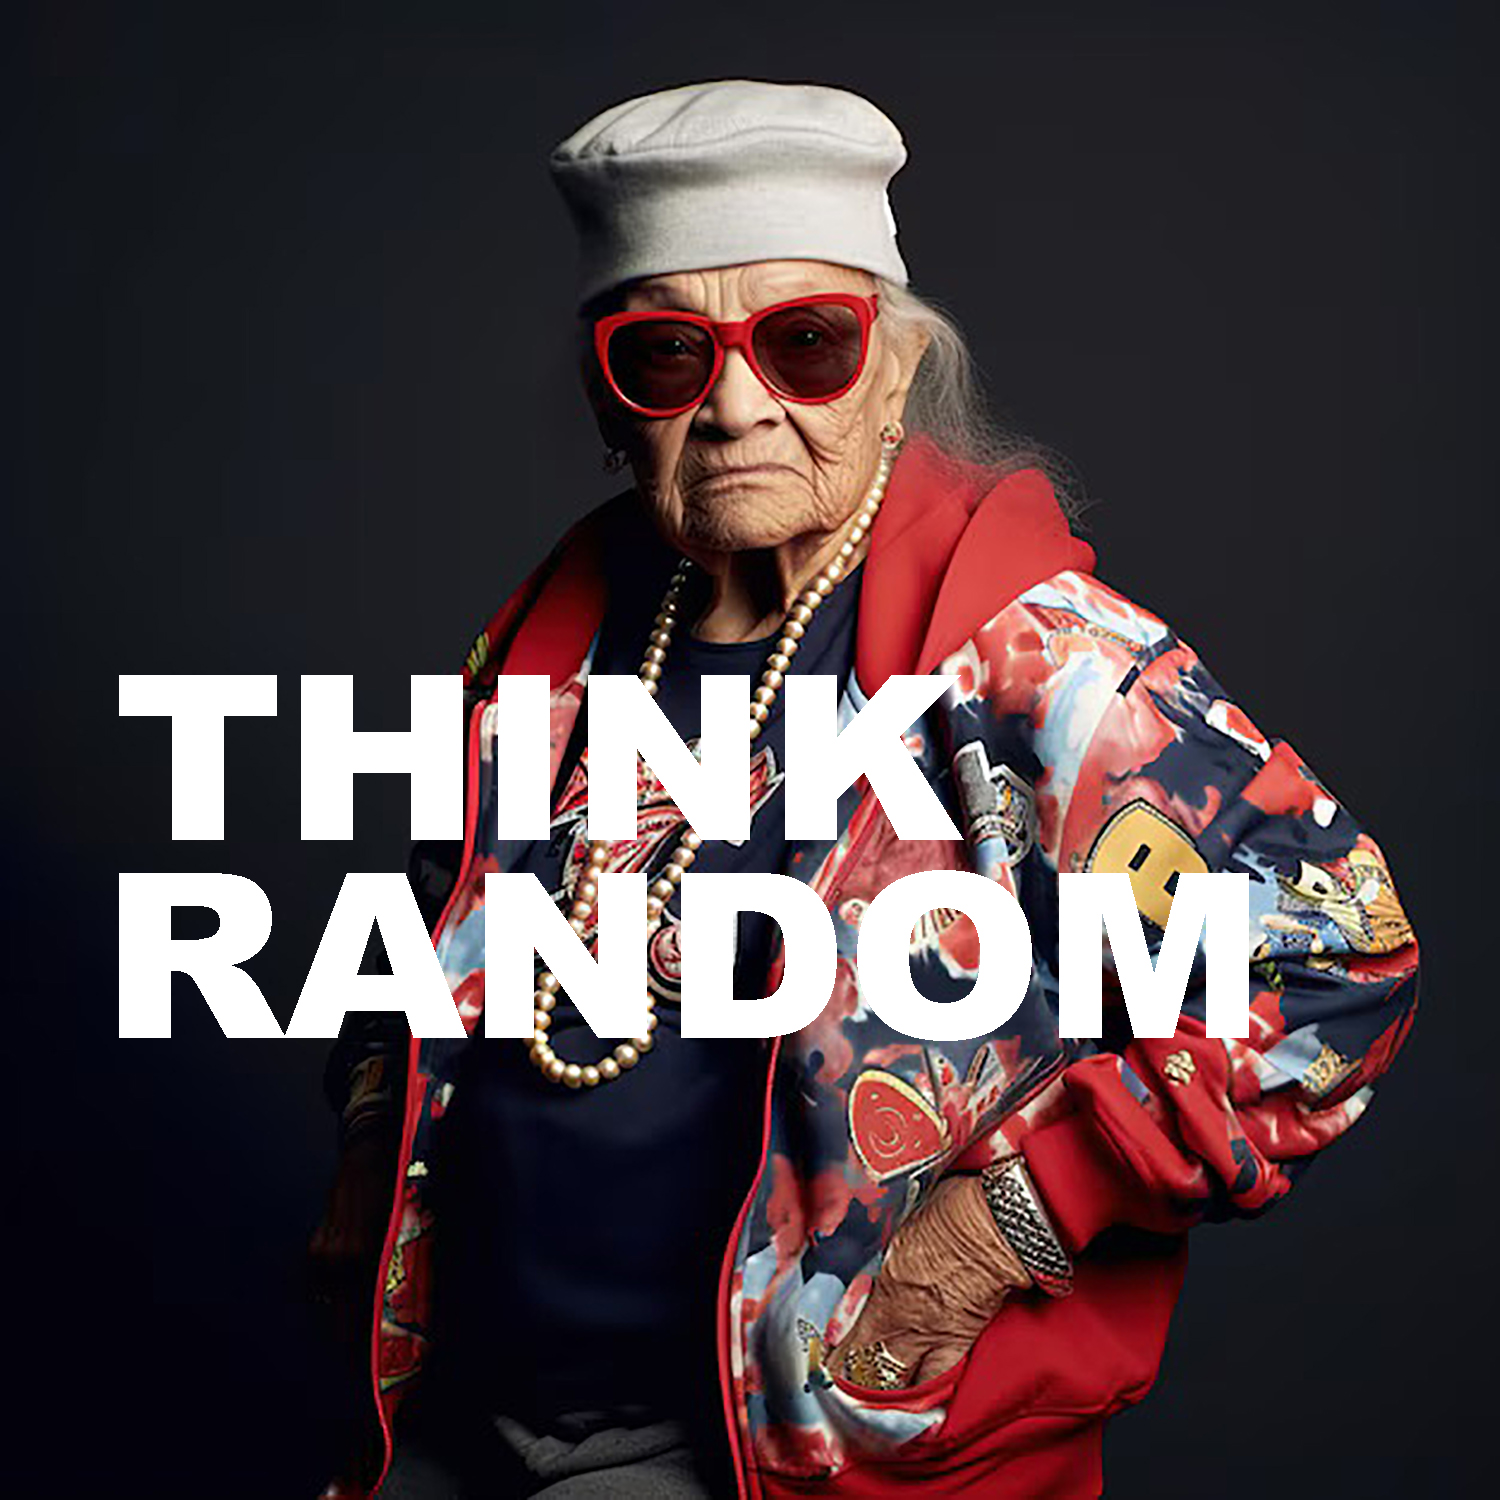
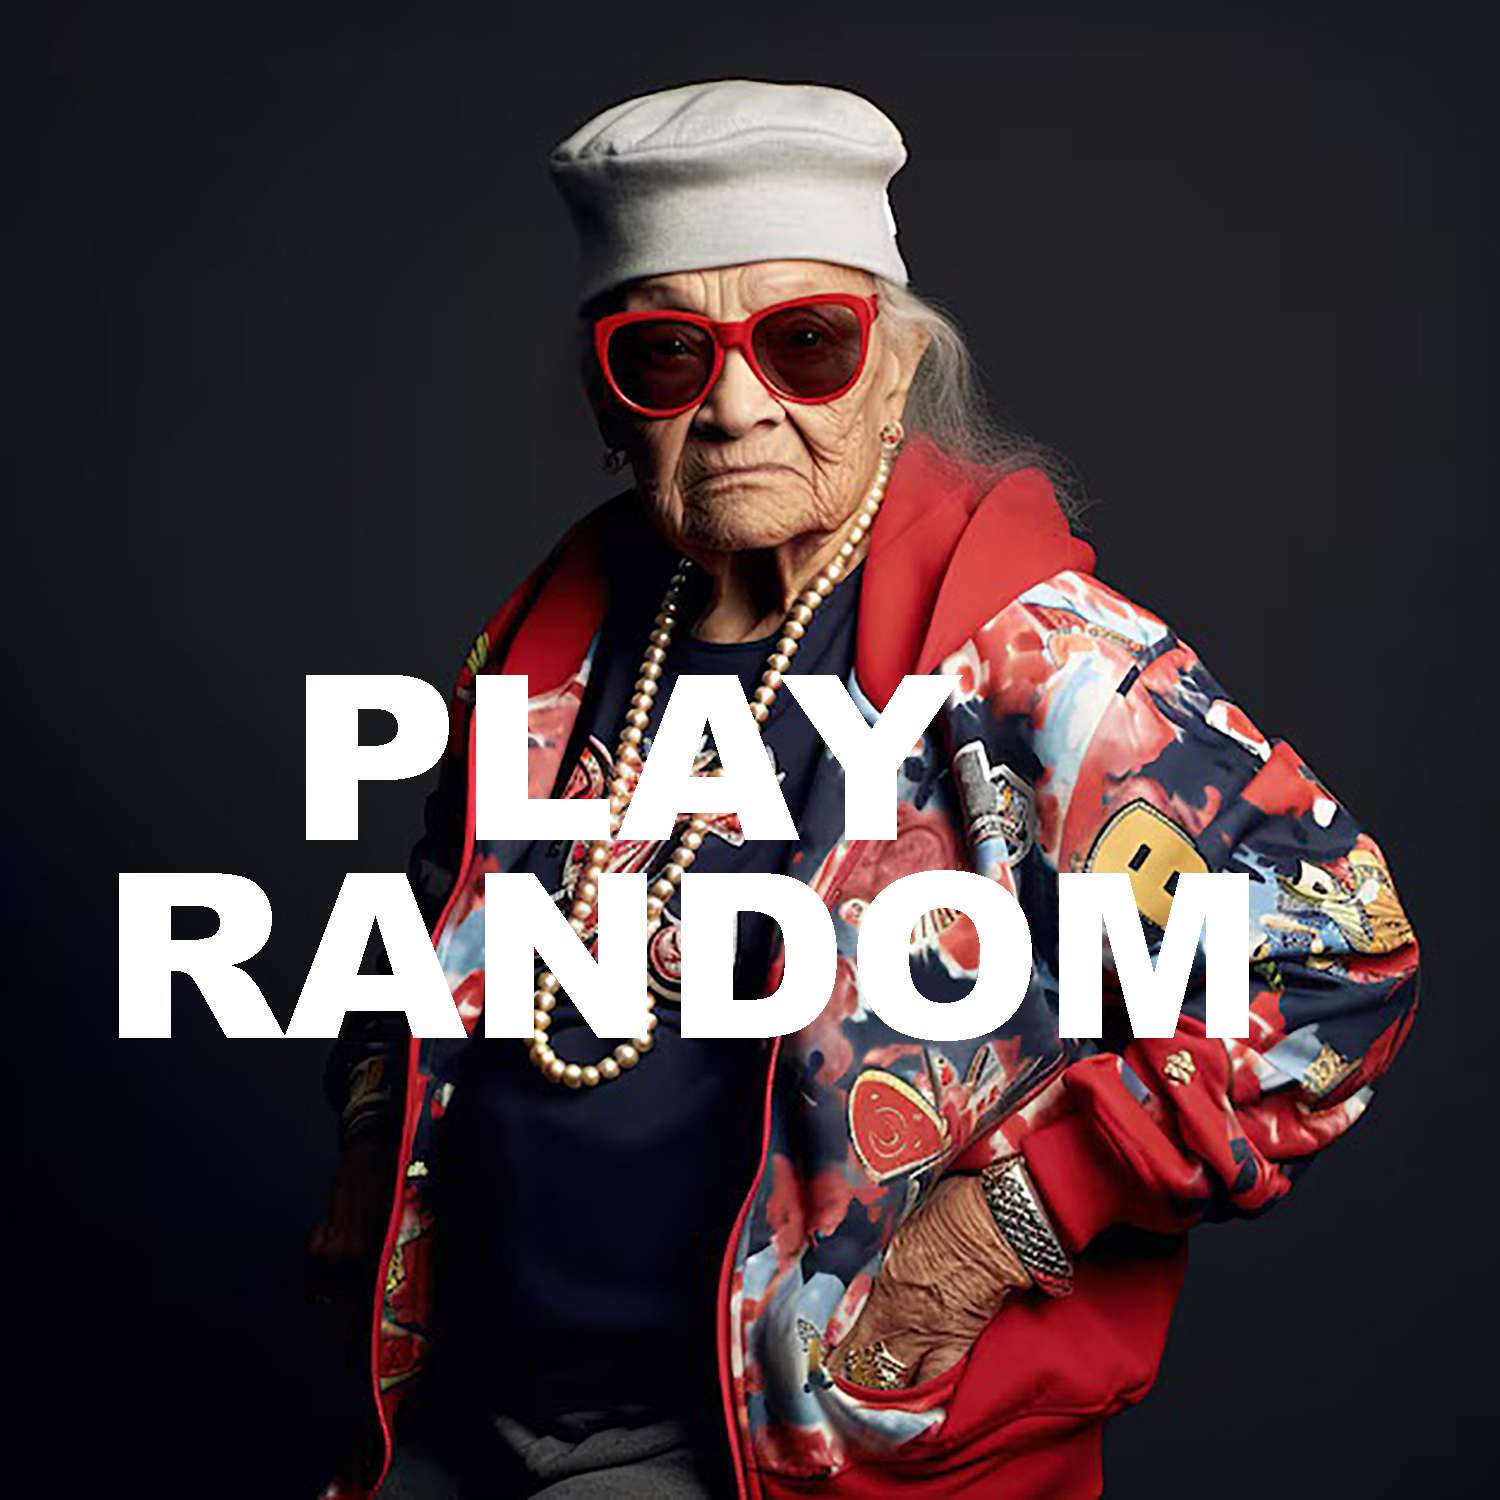
changes

Changed region(s): [[0.0613, 0.4293, 0.644, 0.5827]]

diff --git a/core/templates/core/home.html b/core/templates/core/home.html
@@ -136,7 +136,9 @@
 
 
 
-
+{% comment %}
+"{% static 'images/landing/makefriends1.jpg' %}",
+{% endcomment %}
 
 <script>
   document.addEventListener("DOMContentLoaded", function() {
@@ -145,7 +147,6 @@
     const imageElement = document.getElementById("toggle-image");
     const imagePaths = [
       "{% static 'images/landing/thinkrandom1.jpg' %}",
-      "{% static 'images/landing/makefriends1.jpg' %}",
       "{% static 'images/landing/tryblue1.jpg' %}"
     ];
     let currentImageIndex = 0;
